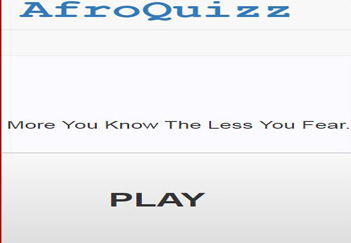
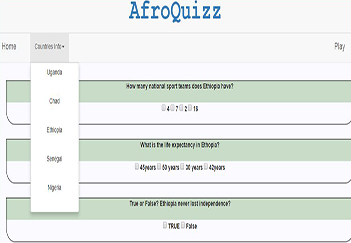
modify

diff --git a/index.html b/index.html
@@ -559,7 +559,7 @@
                                 <div class="modal-body">
                                     <h2>AfroQuiz</h2>
                                     <hr class="star-primary">
-                                   <a href="https://obscure-fortress-6279.herokuapp.com/"><img src="img/portfolio/afro_02.jpg" class="img-responsive img-centered" alt=""></a>
+                                   <a href="https://obscure-fortress-6279.herokuapp.com/learn" target="_blank"><img src="img/portfolio/AfroPlay.jpg" class="img-responsive img-centered" alt=""></a>
                                     <p>AfroQuiz App For Travellers This is a live app that has all the info you need about African countries also quiz about those ountries...<a href="https://obscure-fortress-6279.herokuapp.com/learn">Take a quiz</a></p>
                                     <ul class="list-inline item-details">
                                         <li>Date:
